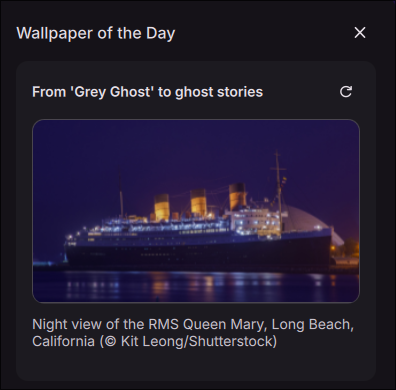
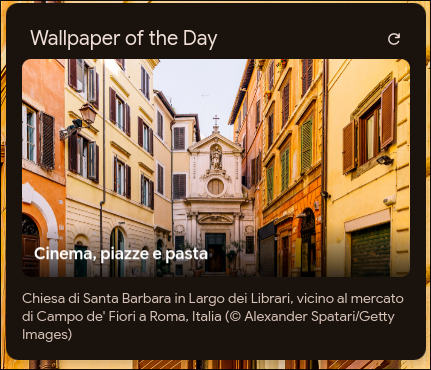
v. 2.0.0

diff --git a/BingwallWidget.qml b/BingwallWidget.qml
@@ -24,6 +24,10 @@ PluginComponent {
     property string currentDescription:   ""
     property bool   isDownloading:        false
 
+    // Consecutive watcher failures; reset whenever the watcher reports an event
+    property int    watcherRestarts:      0
+    readonly property int maxWatcherRestarts: 5
+
     // -------------------------------------------------------------------------
     // Force trigger writer
     // -------------------------------------------------------------------------
@@ -37,7 +41,8 @@ PluginComponent {
     // -------------------------------------------------------------------------
     // Directory watcher — catches both normal and atomic writes from the daemon.
     // The directory is created first so the watcher works even if the daemon
-    // has never run; if inotifywait exits anyway, it is restarted after a delay.
+    // has never run; if inotifywait exits anyway, it is restarted after a delay,
+    // giving up after maxWatcherRestarts consecutive failures (e.g. not installed).
     // -------------------------------------------------------------------------
     Process {
         id: bingwallDirWatcher
@@ -46,11 +51,16 @@ PluginComponent {
                   "mkdir -p \"$1\" && exec inotifywait -q -m -e close_write,moved_to --format %f \"$1\"",
                   "sh", Paths.strip(Paths.cache + "/bingwall/")]
         onExited: (exitCode, exitStatus) => {
+            if (++root.watcherRestarts > root.maxWatcherRestarts) {
+                console.error("Wallpaper of the day: directory watcher keeps failing (is inotify-tools installed?) - giving up")
+                return
+            }
             console.warn("Wallpaper of the day: directory watcher exited with code", exitCode, "- restarting")
             watcherRestartTimer.restart()
         }
         stdout: SplitParser {
             onRead: line => {
+                root.watcherRestarts = 0
                 const f = line.trim()
                 if (f === "metadata.json") {
                     Proc.runCommand(null, ["cat", Paths.strip(root.currentMetadataPath)],
@@ -148,172 +158,122 @@ PluginComponent {
     }
 
     // -------------------------------------------------------------------------
-    // Popout
+    // Popout — height follows content; Escape and padding are handled by the host
     // -------------------------------------------------------------------------
-    popoutWidth: 400
-    popoutHeight: 400
+    popoutWidth: 420
     popoutContent: Component {
-        Column {
-            id: contentColumn
-
-            anchors.left: parent.left
-            anchors.right: parent.right
-            anchors.top: parent.top
-            anchors.bottom: parent.bottom
-            anchors.margins: Theme.spacingM
-            bottomPadding: Theme.spacingL
-            spacing: Theme.spacingM
-
-            Keys.onPressed: function(event) {
-                if (event.key === Qt.Key_Escape) {
-                    closePopout()
-                    event.accepted = true
+        PopoutComponent {
+            headerText: I18n.tr("Wallpaper of the Day")
+            headerActions: Component {
+                DRefreshButton {
+                    buttonSize: 32
+                    iconSize: 18
+                    iconColor: Theme.surfaceText
+                    busy: root.isDownloading
+                    onClicked: root.requestForceDownload()
                 }
             }
 
-            // Header row
-            Item {
+            Column {
                 width: parent.width
-                height: 32
+                spacing: Theme.spacingM
 
-                StyledText {
-                    text: I18n.tr("Wallpaper of the Day")
-                    font.pixelSize: Theme.fontSizeLarge
-                    color: Theme.surfaceText
-                    font.weight: Font.Medium
-                    anchors.verticalCenter: parent.verticalCenter
-                }
+                // Hero image with title overlay
+                Item {
+                    width: parent.width
+                    height: width * 9 / 16
 
-                Rectangle {
-                    width: 32
-                    height: 32
-                    radius: 16
-                    color: closeArea.containsMouse ? Theme.errorHover : "transparent"
-                    anchors.right: parent.right
-                    anchors.verticalCenter: parent.verticalCenter
-
-                    DIcon {
-                        anchors.centerIn: parent
-                        name: "close"
-                        size: Theme.iconSize - 4
-                        color: closeArea.containsMouse ? Theme.error : Theme.surfaceText
-                    }
-
-                    MouseArea {
-                        id: closeArea
+                    Rectangle {
+                        id: heroMask
                         anchors.fill: parent
-                        hoverEnabled: true
-                        cursorShape: Qt.PointingHandCursor
-                        onPressed: closePopout()
-                    }
-                }
-            }
-
-            // Detail card
-            Rectangle {
-                id: bingwallDetail
-
-                width: parent.width
-                implicitHeight: detailColumn.implicitHeight + Theme.spacingM * 2
-                radius: Theme.cornerRadius
-                color: Theme.withAlpha(Theme.surfaceContainerHigh, Theme.popupTransparency)
-                border.color: Theme.outlineStrong
-                border.width: 1
-                clip: true
-
-                Column {
-                    id: detailColumn
-
-                    anchors.fill: parent
-                    anchors.margins: Theme.spacingL
-                    spacing: Theme.spacingM
-
-                    // Title + refresh button
-                    Item {
-                        width: parent.width
-                        height: 30
-
-                        StyledText {
-                            id: bingwallTitle
-                            text: root.currentTitle
-                            font.pixelSize: Theme.fontSizeMedium
-                            font.weight: Font.DemiBold
-                            color: Theme.surfaceText
-                            anchors.left: parent.left
-                            anchors.verticalCenter: parent.verticalCenter
-                        }
-
-                        DActionButton {
-                            id: refreshButton
-                            buttonSize: 28
-                            iconName: "refresh"
-                            iconSize: 18
-                            z: 15
-                            anchors.right: parent.right
-                            iconColor: Theme.surfaceText
-                            enabled: !root.isDownloading
-                            opacity: enabled ? 1.0 : 0.5
-                            onClicked: root.requestForceDownload()
-
-                            RotationAnimation {
-                                target: refreshButton
-                                property: "rotation"
-                                from: 0
-                                to: 360
-                                duration: 1000
-                                running: root.isDownloading
-                                loops: Animation.Infinite
-                                onRunningChanged: {
-                                    if (!running) refreshButton.rotation = 0
-                                }
-                            }
-                        }
-                    }
-
-                    // Wallpaper thumbnail
-                    StyledRect {
-                        width: parent.width
-                        height: parent.width * 9 / 16
                         radius: Theme.cornerRadius
-                        color: Theme.surfaceVariant
-                        border.color: Theme.outline
+                        color: "black"
+                        visible: false
+                        layer.enabled: true
+                    }
 
-                        CachingImage {
-                            id: bingwallImage
-                            anchors.fill: parent
-                            anchors.margins: 1
-                            imagePath: root.currentImageSavePath ? "file://" + root.currentImageSavePath : ""
-                            fillMode: Image.PreserveAspectCrop
-                            maxCacheSize: 160
-                            layer.enabled: true
-                            layer.effect: MultiEffect {
-                                maskEnabled: true
-                                maskSource: wallpaperMask
-                                maskThresholdMin: 0.5
-                                maskSpreadAtMin: 1
-                            }
+                    Item {
+                        anchors.fill: parent
+                        layer.enabled: true
+                        layer.effect: MultiEffect {
+                            maskEnabled: true
+                            maskSource: heroMask
+                            maskThresholdMin: 0.5
+                            maskSpreadAtMin: 1
                         }
 
                         Rectangle {
-                            id: wallpaperMask
                             anchors.fill: parent
-                            anchors.margins: 1
-                            radius: Theme.cornerRadius - 1
-                            color: "black"
-                            visible: false
-                            layer.enabled: true
+                            color: Theme.surfaceContainerHigh
+                        }
+
+                        DIcon {
+                            anchors.centerIn: parent
+                            visible: !root.currentImageSavePath
+                            name: "wallpaper"
+                            size: 48
+                            color: Theme.surfaceVariantText
+                        }
+
+                        CachingImage {
+                            anchors.fill: parent
+                            imagePath: root.currentImageSavePath
+                            fillMode: Image.PreserveAspectCrop
+                            maxCacheSize: 512
+                            opacity: root.isDownloading ? 0.5 : 1.0
+
+                            Behavior on opacity {
+                                NumberAnimation { duration: Theme.shortDuration }
+                            }
+                        }
+
+                        // Bottom scrim keeps the title readable on bright images
+                        Rectangle {
+                            anchors.left: parent.left
+                            anchors.right: parent.right
+                            anchors.bottom: parent.bottom
+                            height: heroTitle.implicitHeight + Theme.spacingL * 2
+                            visible: root.currentTitle !== ""
+                            gradient: Gradient {
+                                GradientStop { position: 0.0; color: "transparent" }
+                                GradientStop { position: 1.0; color: Qt.rgba(0, 0, 0, 0.75) }
+                            }
+
+                            StyledText {
+                                id: heroTitle
+                                anchors.left: parent.left
+                                anchors.right: parent.right
+                                anchors.bottom: parent.bottom
+                                anchors.margins: Theme.spacingM
+                                text: root.currentTitle
+                                color: "white"
+                                font.pixelSize: Theme.fontSizeLarge
+                                font.weight: Font.DemiBold
+                                wrapMode: Text.WordWrap
+                                maximumLineCount: 2
+                                elide: Text.ElideRight
+                            }
                         }
                     }
 
-                    // Description
-                    StyledText {
-                        width: parent.width
-                        text: root.currentDescription
-                        font.pixelSize: Theme.fontSizeMedium
-                        color: Theme.surfaceVariantText
-                        wrapMode: Text.WordWrap
-                        clip: true
+                    DSpinner {
+                        anchors.centerIn: parent
+                        size: 40
+                        running: root.isDownloading
+                        visible: root.isDownloading
                     }
+                }
+
+                StyledText {
+                    width: parent.width
+                    text: root.currentDescription
+                          || (root.currentImageSavePath ? "" : I18n.tr("No wallpaper downloaded yet"))
+                    visible: text !== ""
+                    font.pixelSize: Theme.fontSizeMedium
+                    color: Theme.surfaceVariantText
+                    wrapMode: Text.WordWrap
+                    maximumLineCount: 8
+                    elide: Text.ElideRight
                 }
             }
         }
